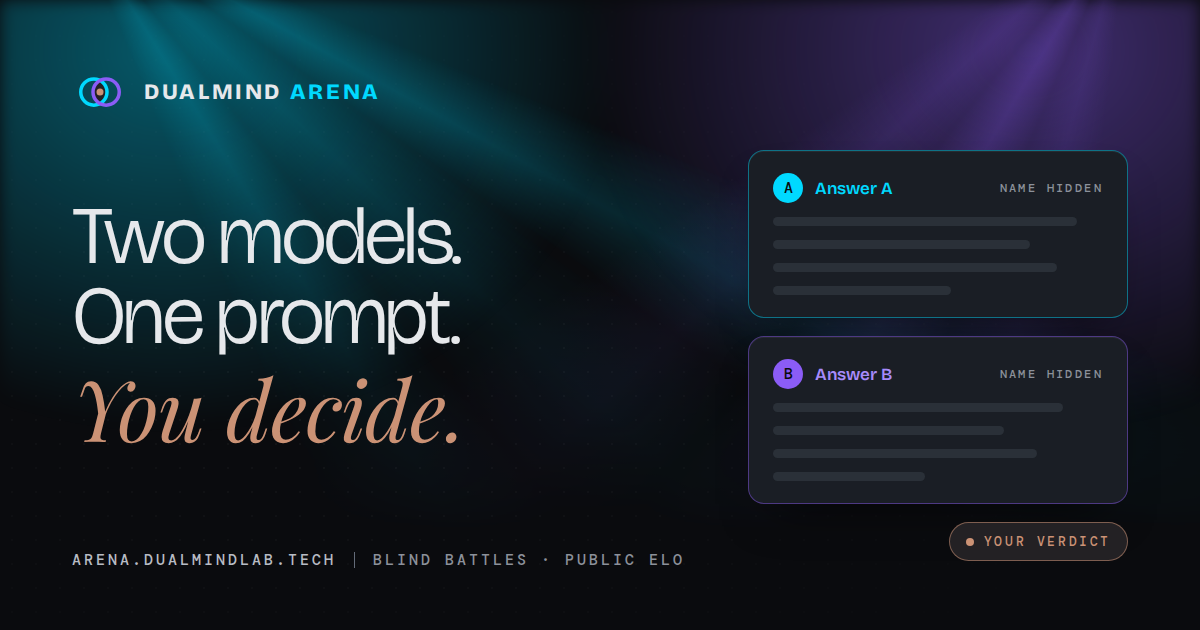
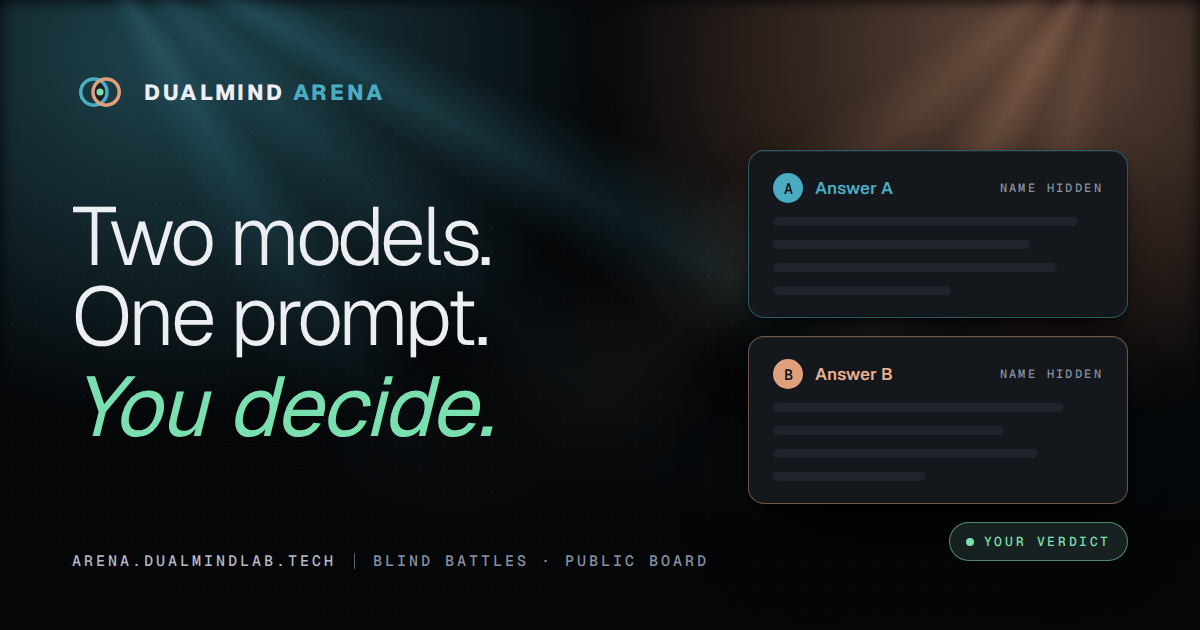
fix: share images regenerated without the Elo claim, manifest wording, e2e text

diff --git a/web/tests/unit/guards/rating-claims.test.ts b/web/tests/unit/guards/rating-claims.test.ts
@@ -12,7 +12,7 @@ import { describe, expect, it } from 'vitest';
 const repo = path.resolve(path.dirname(fileURLToPath(import.meta.url)), '..', '..', '..', '..');
 
 const SKIP_DIRS = new Set(['node_modules', 'dist', '.git']);
-const TEXT_FILE = /\.(tsx?|jsx?|mjs|html|md)$/;
+const TEXT_FILE = /\.(tsx?|jsx?|mjs|html|md|webmanifest|txt)$/;
 
 function walk(target: string): string[] {
   const info = statSync(target);
@@ -39,6 +39,7 @@ const CLAIMS: readonly RegExp[] = [
 describe('rating claims', () => {
   const files = [
     path.join(repo, 'web', 'src'),
+    path.join(repo, 'web', 'public'),
     path.join(repo, 'waitlist-worker', 'src'),
     path.join(repo, 'waitlist-worker', 'index.html'),
     path.join(repo, 'server'),

diff --git a/web/tests/e2e/leaderboard.spec.ts b/web/tests/e2e/leaderboard.spec.ts
@@ -283,7 +283,7 @@ test.describe('/leaderboard/ (desktop)', () => {
     // Ten Gemma builds, eight rated and two not yet: a search opens the unrated group by itself.
     await page.getByRole('searchbox', { name: 'Search models' }).fill('gemma');
     await expect(bodyRows(page)).toHaveCount(10);
-    await expect(page.getByText(/^Showing/)).toHaveText(`Showing 10 of ${MODELS} models`);
+    await expect(page.getByText(/^Showing/)).toContainText(`Showing 10 of ${MODELS} models`);
 
     // Google made nine of them (the SEA-LION build is AI Singapore's).
     await page.getByRole('button', { name: /^Google/ }).click();

diff --git a/web/src/features/marketing/content/landing.ts b/web/src/features/marketing/content/landing.ts
@@ -17,7 +17,7 @@ export const SEO = {
     'Ask one prompt, compare two anonymous AI answers side by side and vote for the better one. Names appear after your vote.',
   ogImage: '/og/landing-v2.png',
   ogImageAlt:
-    'DualMind Arena. Two models. One prompt. You decide. Two answer panes, A in cyan and B in violet.',
+    'DualMind Arena. Two models. One prompt. You decide. Two answer panes, A in cyan and B in terracotta.',
 } as const;
 
 export const HERO = {

diff --git a/docs/redesign/design-direction.md b/docs/redesign/design-direction.md
@@ -37,7 +37,7 @@ What the user should feel on each core moment:
 | Line | Text | Use it for |
 | --- | --- | --- |
 | Primary | **Two models. One prompt. You decide.** | The landing H1, the arena and sign-up pages' headline or subhead, share and social cards. The one line people should remember. |
-| Supporting | Blind battles between AI models, ranked by votes. | Short descriptions where a headline would be too loud: the footer, meta descriptions, link previews, the About intro. It is factual and says what the product does. |
+| Supporting | Blind battles between AI models, with a public leaderboard. | Short descriptions where a headline would be too loud: the footer, meta descriptions, link previews, the About intro. It is factual and says what the product does. |
 
 Both live in `web/src/content/brand.ts` (`BRAND_PRIMARY`, `BRAND_SUPPORTING`); import them instead of retyping. The north-star phrase "Two minds, one verdict" above is a design intent for the team, not user-facing copy: do not ship it, and do not write new taglines ("Two minds. Your verdict.", "Two minds, one verdict"). Page headings stay free to use their own editorial line (About: "Compare AI models, blind."); that is a heading, not a tagline.
 
